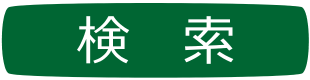
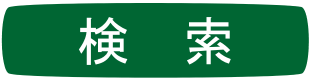
デザインの変更

Changed region(s): [[0.2323, 0.2, 0.4355, 0.825], [0.5806, 0.2, 0.7548, 0.825]]

diff --git a/Basumaru/Content/Site.css b/Basumaru/Content/Site.css
@@ -30,4 +30,11 @@ button {
     border:0;
     line-height:0;
     cursor:pointer;
+    position: relative;
+    bottom: 5px;
+}
+
+.hacchaku {
+position: relative;
+bottom :3.5px;
 }
